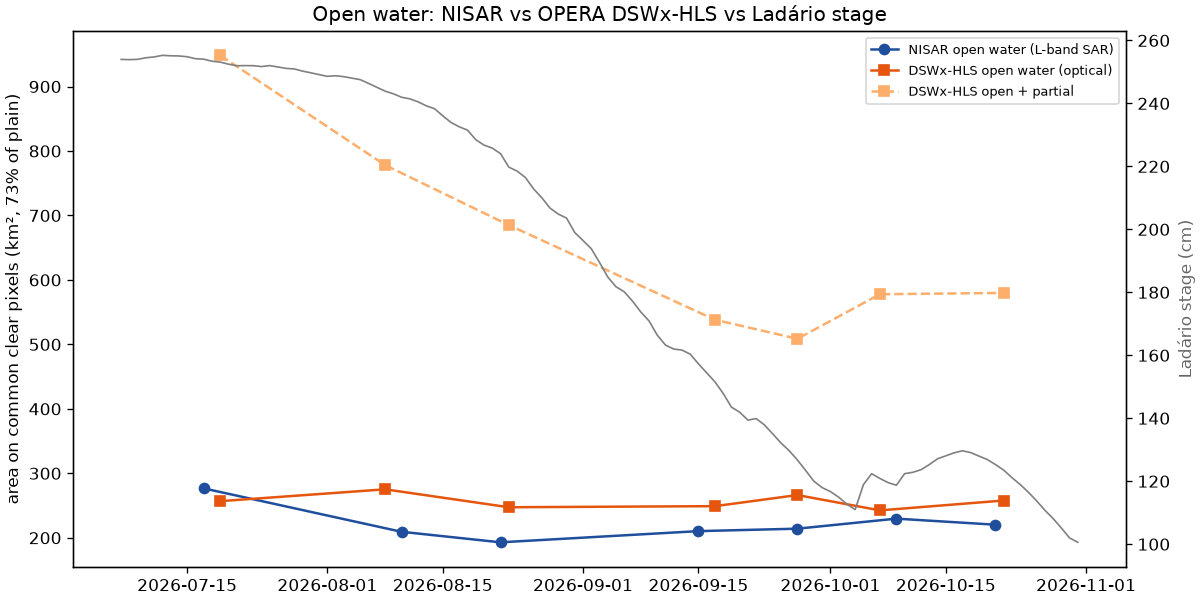
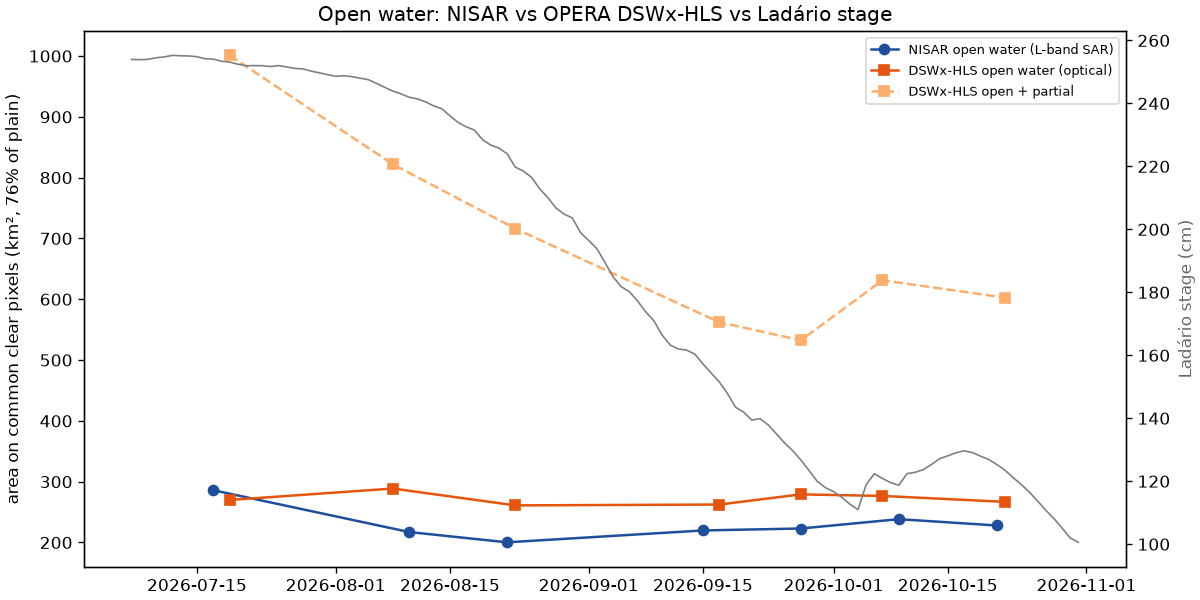
Complete DSWx-HLS tiles; rerun 02e/02g/02h

diff --git a/README.md b/README.md
@@ -92,13 +92,13 @@ This project is not endorsed by NASA.
 
 Study area: Paraguay River floodplain, Corumbá–Ladário to Mandioré lagoon. NISAR L2 GCOV (L-band, HH+HV), 8 acquisitions from 2026-07-17 to 2026-10-21, 40 m, Lee-filtered. Open water = HV < −22 dB and HH < −16 dB (gamma0), thresholds fixed for all dates and shifted per date by the backscatter change of a stable reference (forested hills > 200 m). Validation against OPERA DSWx-HLS (optical, independent) and the Paraguay River stage at Ladário (ANA 66825000, daily mean).
 
-**1. NISAR maps open water reliably.** Against DSWx-HLS on near-simultaneous dates (≤ 2 days), precision is 0.92–1.00, recall 0.65–0.82 and IoU 0.62–0.81 (8 pairs). NISAR recovers on average 87% of the DSWx open-water area on common cloud-free pixels.
+**1. NISAR maps open water reliably.** Against DSWx-HLS on near-simultaneous dates (≤ 2 days), precision is 0.92–1.00, recall 0.65–0.78 and IoU 0.62–0.78 (8 pairs). NISAR recovers on average 85% of the DSWx open-water area on common cloud-free pixels.
 
-**2. Open water stayed stable; the decline is in shallow, partly vegetated water.** On pixels cloud-free in all paired dates (7 dates), DSWx open water went from 257 to 258 km² (r = 0.32 with Ladário stage, p = 0.49), while open + partial surface water fell from 948 to 580 km² and tracks the river (r = 0.90, p = 0.006). Ladário fell from 253 to 124 cm. The river channel and permanent lagoons held their extent; the decline is consistent with drying of shallow, partly vegetated water (DSWx partial class), which an L-band open-water rule does not capture (NISAR open water vs stage: r = 0.25, p = 0.58).
+**2. Open water stayed stable; the decline is in shallow, partly vegetated water.** On pixels cloud-free in all paired dates (7 dates), DSWx open water went from 270 to 267 km² (r = 0.11 with Ladário stage, p = 0.81), while open + partial surface water fell from 1001 to 603 km² and tracks the river (r = 0.89, p = 0.008). Ladário fell from 253 to 124 cm. The river channel and permanent lagoons held their extent; the decline is consistent with drying of shallow, partly vegetated water (DSWx partial class), which an L-band open-water rule does not capture (NISAR open water vs stage: r = 0.25, p = 0.59).
 
-**3. The July→August drop is not water loss.** The July→August drop in NISAR open water concentrates on DSWx partial-water pixels (×3.3 vs the plain), which DSWx still classifies as wet in August (partial→partial 41 km², open→open 34 km² of the 103 km² lost on cloud-free pixels): consistent with vegetation emerging over shallow water and raising L-band backscatter, not with water loss. About a third of the drop (34 km², 33%) falls on water that DSWx kept as open and remains unexplained. Wind is not supported: in the permanent-water zone HH changed +0.4 dB (HV +0.2 dB) after removing the stable-reference offset.
+**3. The July→August drop is not water loss.** The July→August drop in NISAR open water concentrates on DSWx partial-water pixels (×3.2 vs the plain), which DSWx still classifies as wet in August (partial→partial 42 km², open→open 36 km² of the 107 km² lost on cloud-free pixels): consistent with vegetation emerging over shallow water and raising L-band backscatter, not with water loss. About a third of the drop (36 km², 34%) falls on water that DSWx kept as open and remains unexplained. Wind is not supported: in the permanent-water zone HH changed +0.4 dB (HV +0.2 dB) after removing the stable-reference offset.
 
-**4. Can NISAR alone see the receding shallow water?** Not with backscatter alone (pre-registered test failed): a classifier on HH, HV and HH−HV trained on DSWx-HLS labels of 23 Aug reached a mean partial-water F1 of 0.25 on other dates (target ≥ 0.5) and its partial-water series gave r = 0.01 with Ladário (target ≥ 0.7). Next steps: texture, coherence (GUNW) and multi-date features.
+**4. Can NISAR alone see the receding shallow water?** Not with backscatter alone (pre-registered test failed): a classifier on HH, HV and HH−HV trained on DSWx-HLS labels of 23 Aug reached a mean partial-water F1 of 0.26 on other dates (target ≥ 0.5) and its partial-water series gave r = 0.01 with Ladário (target ≥ 0.7). Next steps: texture, coherence (GUNW) and multi-date features.
 
 **Full coverage on a fixed schedule.** NISAR imaged at least 97% of the floodplain on all 8 dates, every 12 days; on 2 Sep the optical product covered 28% (the rest was not imaged that day).
 
